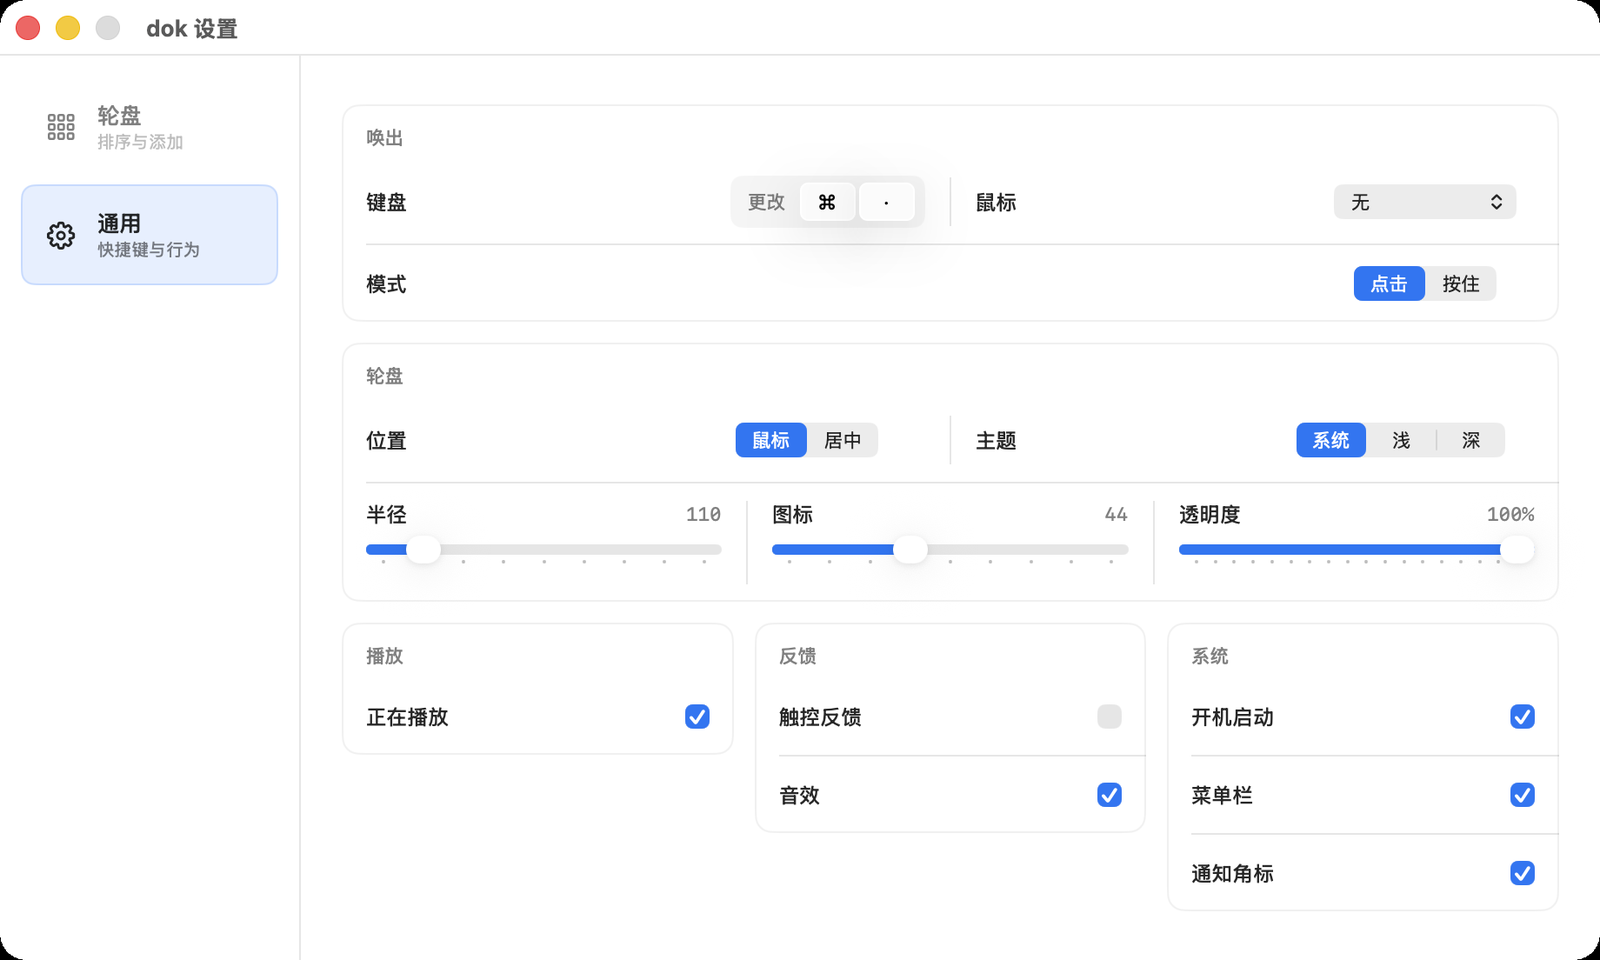
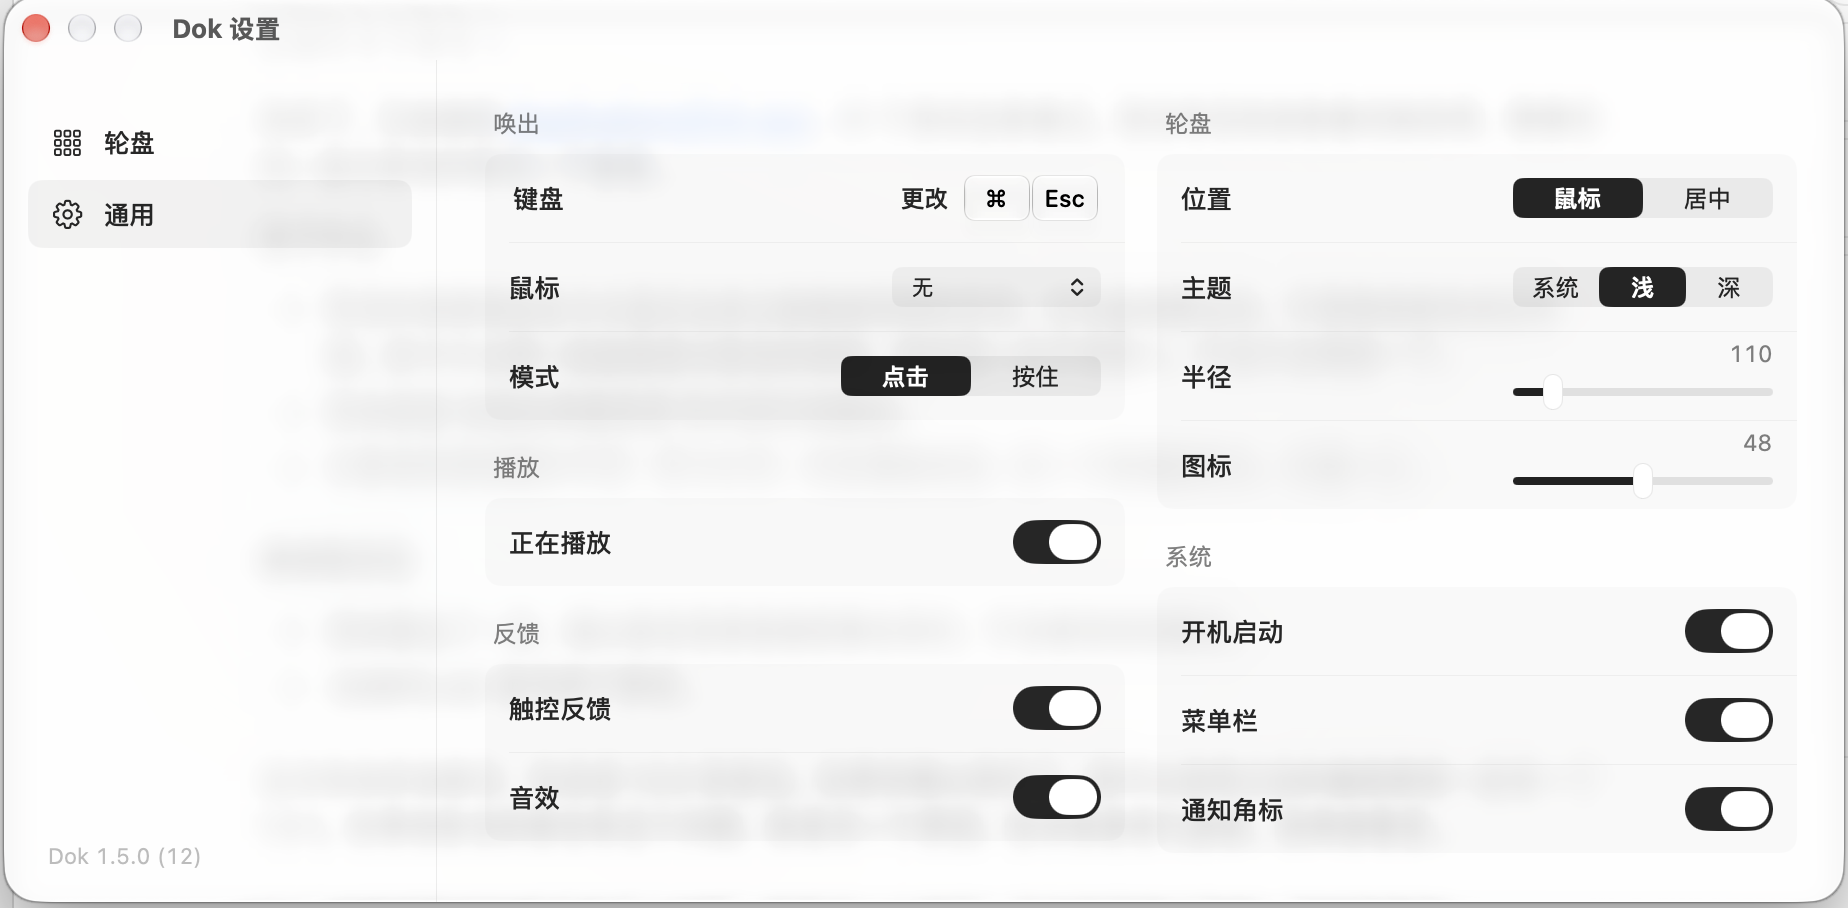
fix: long titles slide in with the cover; refresh README screenshots
- Compute the track title width synchronously so a new card's first frame
  already uses the long-title layout instead of snapping mid-push
- Replace the README wheel and settings screenshots with the 1.5.0 UI

diff --git a/Sources/dok/DokWheelView.swift b/Sources/dok/DokWheelView.swift
@@ -65,16 +65,21 @@ private struct SkipButtonFeedback: ViewModifier {
 /// 单行文字：放得下时居中静止；放不下时停顿后向左滑到末尾完整露出，停一下再滑回开头，
 /// 然后停住，不循环。只在轮盘可见时播放，每张新卡片、每次唤出各播放一次。
 /// 两侧渐隐由外层遮罩提供，静止时文字从 inset 处开始，开头不被淡掉。
+/// 文字宽度在首帧之前同步算出：若等排版后再量，新卡片推入时会先按短曲名居中、下一帧才跳成长曲名排版。
 private struct OverflowTitle: View {
     let text: String
-    let font: Font
+    let fontSize: CGFloat
     let width: CGFloat
     let inset: CGFloat
     let isActive: Bool
 
     @Environment(\.accessibilityReduceMotion) private var reduceMotion
-    @State private var textWidth: CGFloat = 0
     @State private var offset: CGFloat = 0
+
+    private var textWidth: CGFloat {
+        let font = NSFont.systemFont(ofSize: fontSize, weight: .medium)
+        return ceil((text as NSString).size(withAttributes: [.font: font]).width)
+    }
 
     private static let speed: CGFloat = 30
     private static let minimumTravel: Double = 0.6
@@ -97,21 +102,12 @@ private struct OverflowTitle: View {
                     .frame(width: width)
             }
         }
-        .background(
-            label
-                .fixedSize()
-                .hidden()
-                .background(GeometryReader { proxy in
-                    Color.clear.preference(key: TitleWidthKey.self, value: proxy.size.width)
-                })
-        )
-        .onPreferenceChange(TitleWidthKey.self) { textWidth = $0 }
         .task(id: "\(text)|\(isActive)|\(overflow > 0)|\(reduceMotion)") { await reveal() }
     }
 
     private var label: some View {
         Text(text)
-            .font(font)
+            .font(.system(size: fontSize, weight: .medium))
             .foregroundColor(.primary)
     }
 
@@ -132,13 +128,6 @@ private struct OverflowTitle: View {
             guard !Task.isCancelled else { return }
             withAnimation(.easeInOut(duration: travel)) { offset = stop.target }
         }
-    }
-}
-
-private struct TitleWidthKey: PreferenceKey {
-    static var defaultValue: CGFloat = 0
-    static func reduce(value: inout CGFloat, nextValue: () -> CGFloat) {
-        value = max(value, nextValue())
     }
 }
 
@@ -1191,7 +1180,7 @@ struct DokWheelView: View {
             if let card {
                 OverflowTitle(
                     text: card.artist.isEmpty ? card.title : "\(card.title) - \(card.artist)",
-                    font: .system(size: musicTitleFontSize, weight: .medium),
+                    fontSize: musicTitleFontSize,
                     width: musicControllerWidth,
                     inset: MenuMotion.trackPushEdgeFade,
                     isActive: appState.isMenuVisible

diff --git a/work/dok-now-playing-on-demand-test.py b/work/dok-now-playing-on-demand-test.py
@@ -118,13 +118,16 @@ def main() -> None:
     assert "guard !reduceMotion else { return .opacity }" in VIEW, "reduce motion keeps only the fade"
 
     # 长曲名：向左滑到末尾完整露出，停一下再滑回开头，然后停住；不循环。
-    title = VIEW.split("private struct OverflowTitle: View {", 1)[1].split("private struct TitleWidthKey", 1)[0]
+    title = VIEW.split("private struct OverflowTitle: View {", 1)[1].split("/// 每增加 1 晃动两个来回", 1)[0]
     assert "if overflow > 0 && !reduceMotion {" in title
     assert "(Self.startDelay, -overflow)" in title and "(travel + Self.endPause, 0)" in title
     assert "while" not in title and "label\n                    label" not in title, "plays once, never loops"
     assert "guard isActive, overflow > 0, !reduceMotion else { return }" in title
     assert "isActive: appState.isMenuVisible" in VIEW, "the reveal plays only while the wheel is visible"
     assert ".truncationMode(.tail)" in title
+    # 宽度同步算出，新卡片首帧就是最终排版，歌名随封面一起推入，不会中途跳一下。
+    assert "NSFont.systemFont(ofSize: fontSize, weight: .medium)" in title
+    assert "onPreferenceChange" not in title and "TitleWidthKey" not in VIEW
 
     # 收起期间换的歌：打开时直接显示，不推入；只有看着轮盘时换歌（或自己切歌）才推入。
     assert "hasSnapshotSincePresentation = false" in present and "hasSnapshotSincePresentation = false" in dismiss

diff --git a/AGENTS.md b/AGENTS.md
@@ -32,7 +32,7 @@ The installed development copy is `/Applications/Dok.app`. Build successfully be
 
 1. In-process direct MediaRemote read — instant, works only where macOS still allows it.
 2. perl adapter — bundled `MediaRemoteAdapter.framework` run via the Apple-signed system perl. Works for every user. **On demand only**: summoning the wheel shows the cached track and starts `stream --no-diff` (first full snapshot ~20ms), which pushes changes the moment the system announces them; the stream also runs while a play intent is pending, and is terminated when the wheel hides. One-shot `get` warms the cache at startup and after wake. No resident perl process.
-   QQ Music publishes a new track to MediaRemote ~0.7s after a skip and has no scripting interface, so ~0.7s is the floor. The wheel renders `trackCard` (title, artist and artwork as one unit). A new track's card commits only once its cover is present (or after 0.6s without one); late or replaced covers on the same card crossfade in place, and identical artwork bytes keep the same image object. A committed card pushes in only when the user is watching — after the wheel's first snapshot of this summon, or after the user's own skip; a track that changed while the wheel was hidden appears directly on summon, without a push. A pushed card: old and new cards stay edge to edge and move together by the card width (left for next and player-side changes, right for previous) on a 0.46s curve, with 14pt gradient-masked edges (no blur; Reduce Motion uses a fade). QQ Music silently drops skip commands while switching (dropped 0.24s after it reports the new track, accepted at 0.54s) and sometimes at random. `isSkipLocked` runs from a press until the card commits (2s cap): previous/next show at 0.3 opacity without hover, a locked press sends nothing and shakes the button, presses are never queued, and buttons unlock on the push curve. `skipCommandReadyAt` (0.6s after the reported change) defers a press made right after unlock. If no change is confirmed within 0.8s (QQ play bar readable) or 1.4s (MediaRemote only), the command is resent exactly once. A title wider than the card plays a one-time reveal while the wheel is visible: after 0.6s it eases left (30pt/s) until the artist's end is visible, pauses 0.3s, eases back to the start at the 14pt fade inset, and stops — never a looping marquee. It replays for each new card and each summon; titles that fit stay centered and Reduce Motion keeps tail truncation. Play state from a new-track snapshot bypasses the 1.5s post-command freeze, and state received during a freeze is re-applied when it ends (the stream does not resend).
+   QQ Music publishes a new track to MediaRemote ~0.7s after a skip and has no scripting interface, so ~0.7s is the floor. The wheel renders `trackCard` (title, artist and artwork as one unit). A new track's card commits only once its cover is present (or after 0.6s without one); late or replaced covers on the same card crossfade in place, and identical artwork bytes keep the same image object. A committed card pushes in only when the user is watching — after the wheel's first snapshot of this summon, or after the user's own skip; a track that changed while the wheel was hidden appears directly on summon, without a push. A pushed card: old and new cards stay edge to edge and move together by the card width (left for next and player-side changes, right for previous) on a 0.46s curve, with 14pt gradient-masked edges (no blur; Reduce Motion uses a fade). QQ Music silently drops skip commands while switching (dropped 0.24s after it reports the new track, accepted at 0.54s) and sometimes at random. `isSkipLocked` runs from a press until the card commits (2s cap): previous/next show at 0.3 opacity without hover, a locked press sends nothing and shakes the button, presses are never queued, and buttons unlock on the push curve. `skipCommandReadyAt` (0.6s after the reported change) defers a press made right after unlock. If no change is confirmed within 0.8s (QQ play bar readable) or 1.4s (MediaRemote only), the command is resent exactly once. A title wider than the card plays a one-time reveal while the wheel is visible: after 0.6s it eases left (30pt/s) until the artist's end is visible, pauses 0.3s, eases back to the start at the 14pt fade inset, and stops — never a looping marquee. It replays for each new card and each summon; titles that fit stay centered and Reduce Motion keeps tail truncation. The title's width is computed synchronously (NSFont, same size and weight) so a new card's first frame already has its final layout; measuring after layout made long titles snap from centered to leading mid-push. Play state from a new-track snapshot bypasses the 1.5s post-command freeze, and state received during a freeze is re-applied when it ends (the stream does not resend).
 3. Swift toolchain — legacy resident script on a real CLT/Xcode Swift binary. Runs only when perl is missing or 3 consecutive `get`s fail, and stops once a `get` succeeds again. Self-heals: quick exits retry with 30s→5min doubling backoff, system wake restarts it, and a summon with a running player but no track restarts it.
 
 There is no in-app diagnostics row (removed at the user's request); Dok's NSLog output does not reach the unified log on macOS 27, so debug with temporary instrumentation. When the perl adapter is active, playback controls use its one-shot MediaRemote `send` command; system media keys are fallback only. Placeholder play records a 12-second, bundle-targeted intent and brings the preferred running player to the foreground; the perl helper consumes the intent once that player exposes a controllable session. This preserves explicit player selection while preventing an ownerless media key from launching Apple Music.
